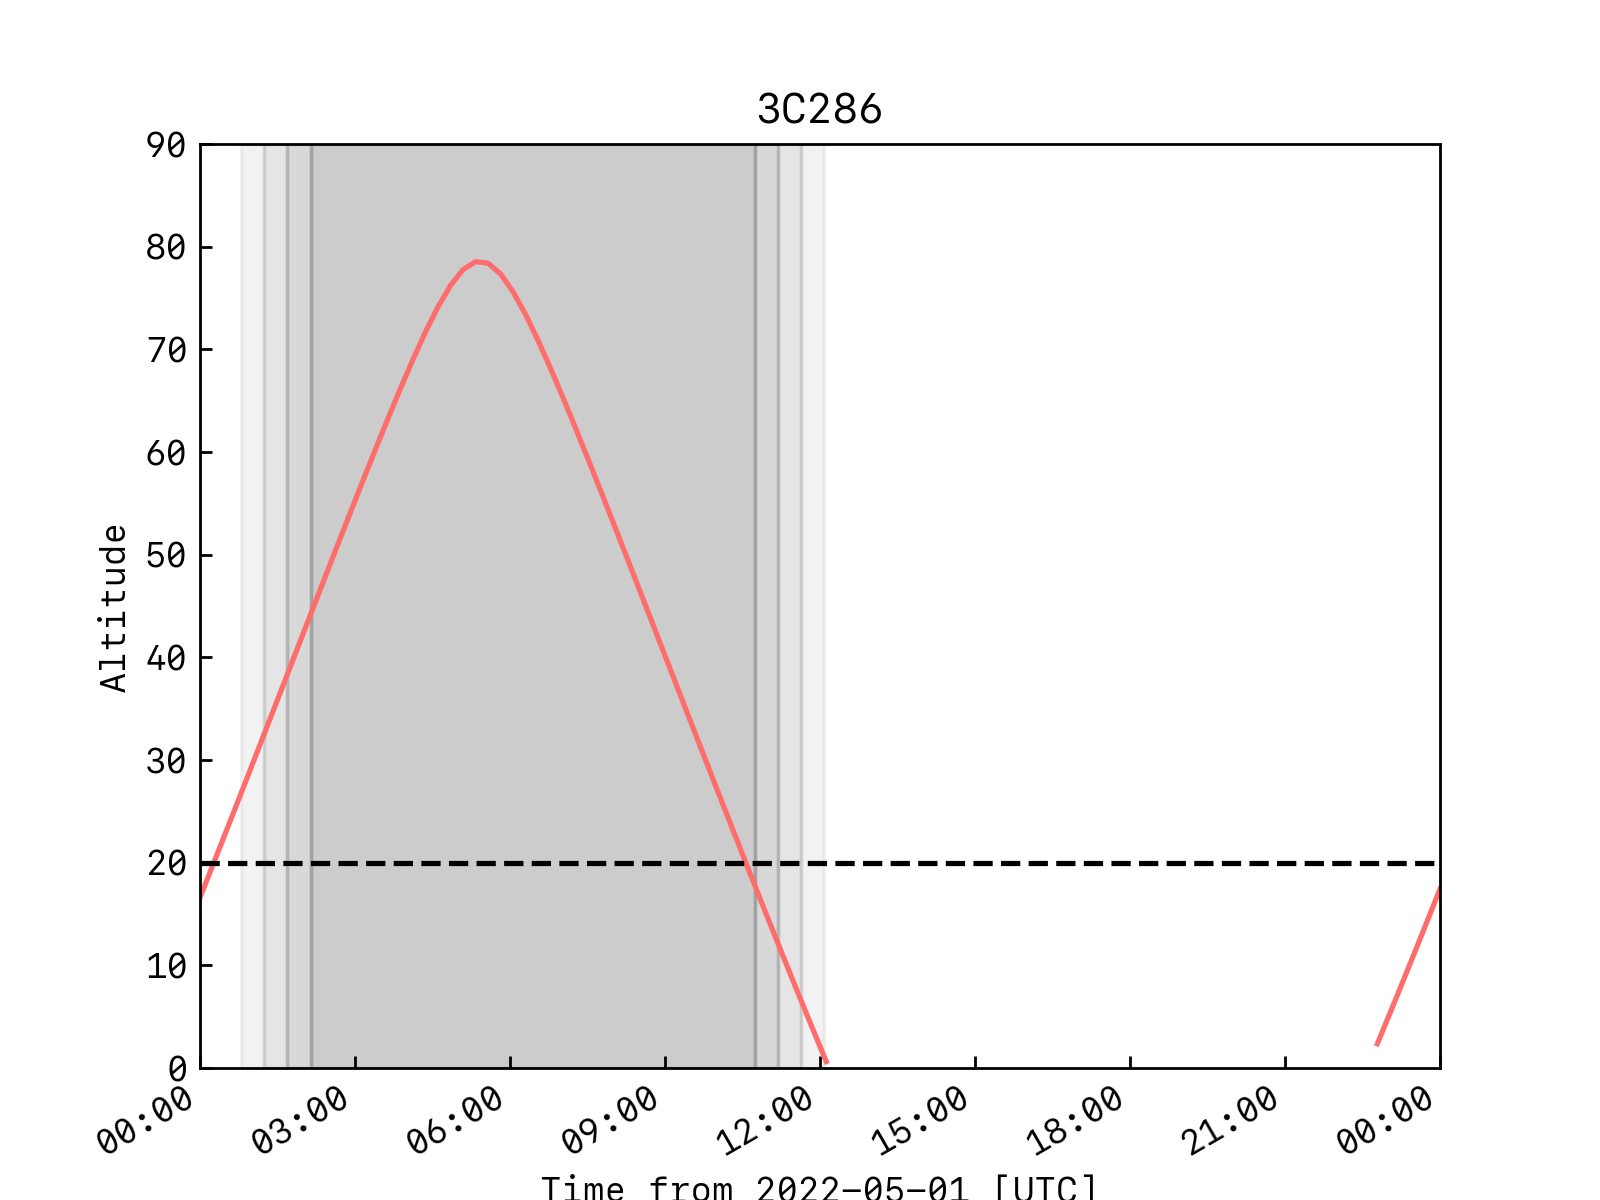
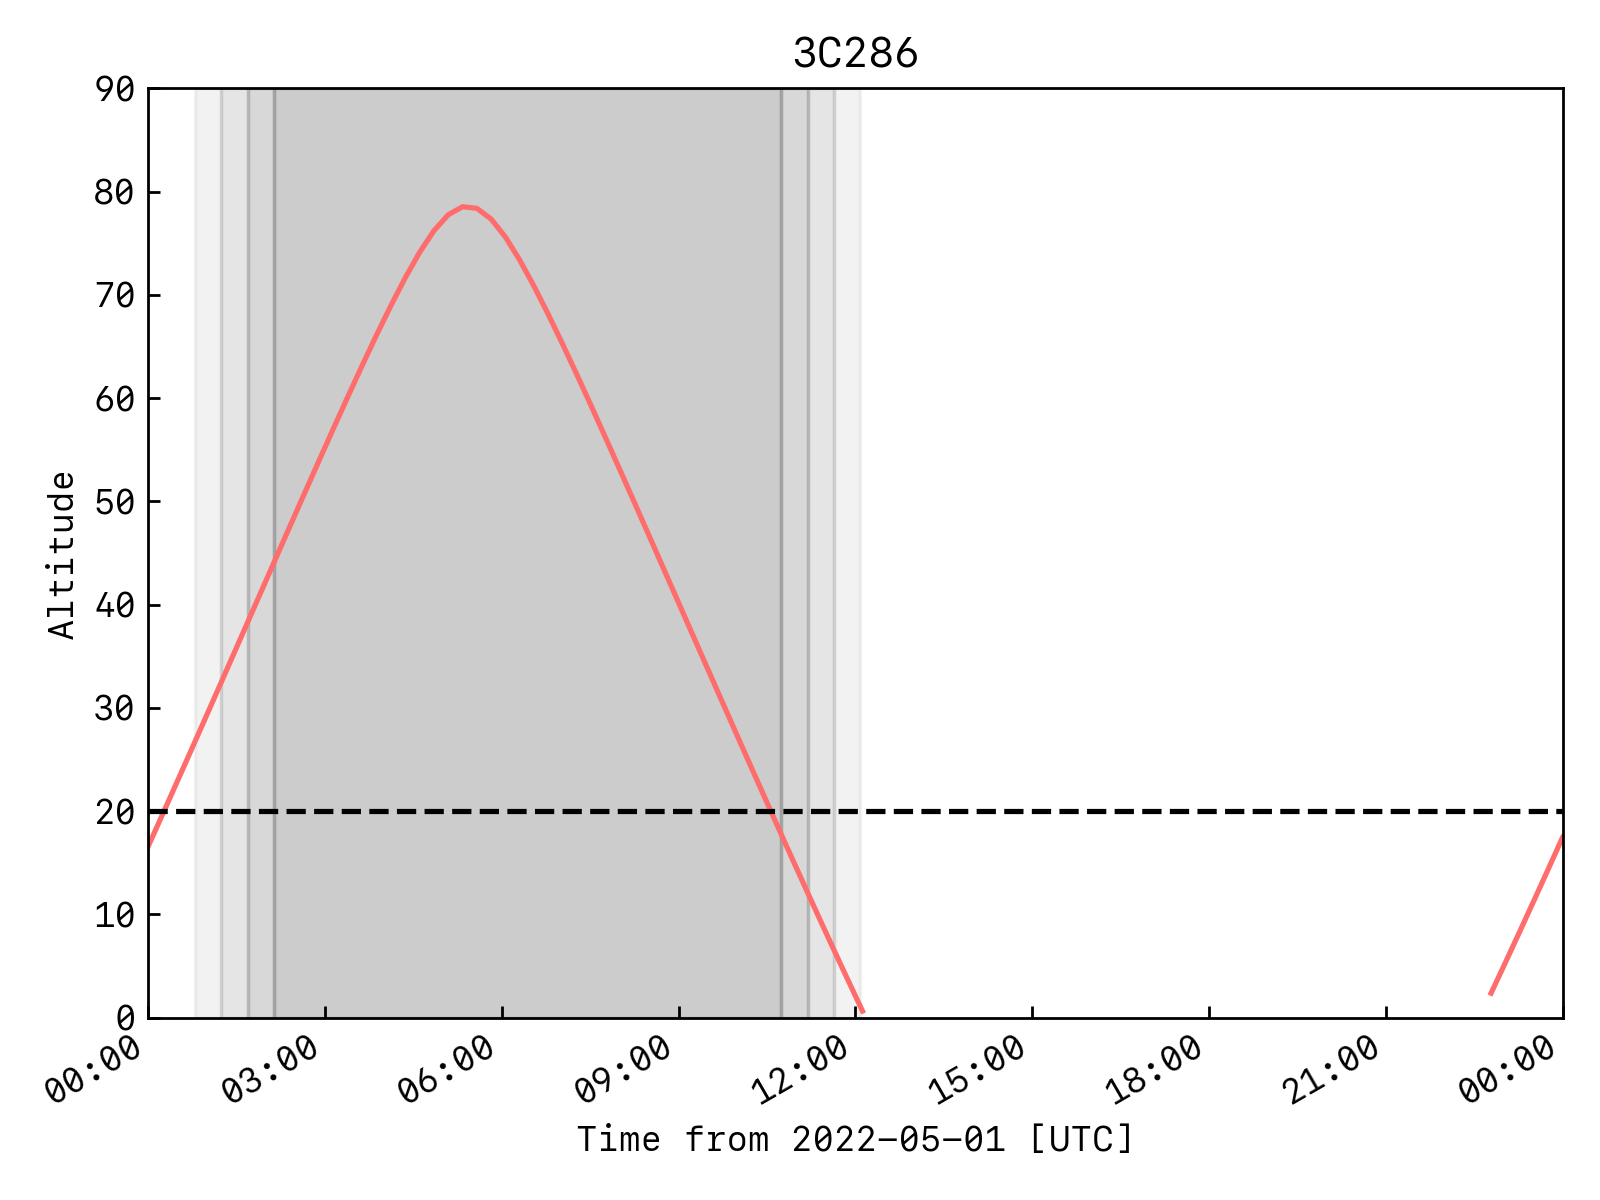
padding fixed

diff --git a/src/amapola_obs.py b/src/amapola_obs.py
@@ -69,6 +69,6 @@ if __name__ == "__main__":
         sp_obj[4].set_ylim((-90, 90))
         #sp_obj[4].legend(fancybox=False, loc='lower left', handletextpad=0.7, frameon=False)
 
-        #plot_obj.tight_layout()
+        plot_obj.tight_layout()
         plot_obj.savefig(f'./plots/amapola/{name_3c}.png', dpi=250)
         plt.close('all')

diff --git a/src/obsplan.py b/src/obsplan.py
@@ -40,6 +40,7 @@ for source in names_3c:
     )
     plt.title(source)
     plt.axhline(y=20, linestyle='--', color='black')
+    plt.tight_layout()
     plt.savefig(f'./plots/obsplanner/{source}.png', dpi=250)
     plt.close('all')
     
